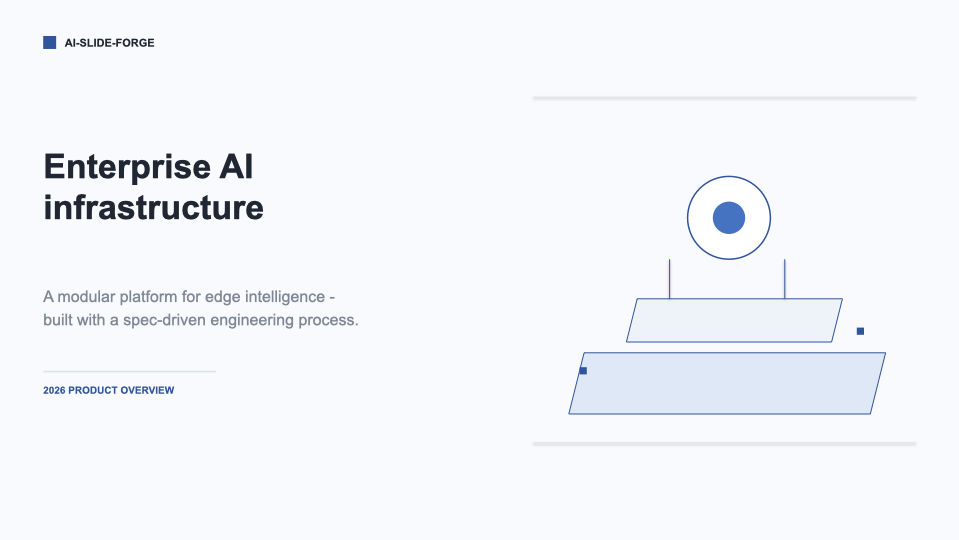
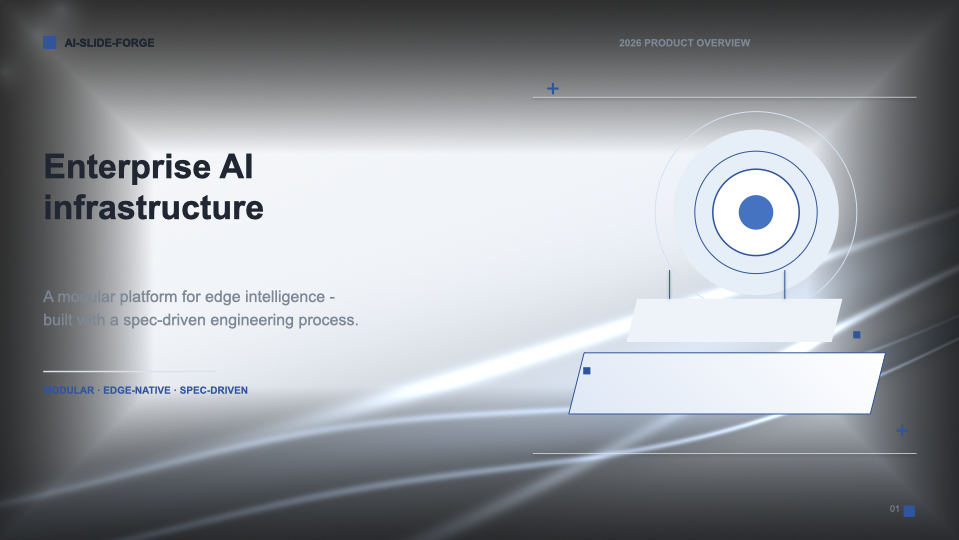
feat: Clean Blue Tech v2 (light washes + richer compositions) + graceful errors + DEVELOP.md
Textures: light mode - white base, pale blue washes, silk bands, dot fields
(no vignette crush). Compositions: platform stack with rings and halo.
Scripts: make_textures graceful config errors + STRICT raise; qa_check
graceful deck-not-found. render_qa.sh: correct output naming docs + input
check. Docs: DEVELOP.md history, background-engine luminance nuance,
styles.md style_id for styles 1-2, sdd-deck reproduce paths, README
five-styles mention.

diff --git a/skills/pptx-ai-slide-forge/scripts/qa_check.py b/skills/pptx-ai-slide-forge/scripts/qa_check.py
@@ -81,9 +81,15 @@ def main():
                     help="text overlap threshold, square inches (default 0.05)")
     args = ap.parse_args()
 
-    failures = []
+    if not os.path.isfile(args.deck):
+        raise SystemExit(f"deck not found: {args.deck}")
 
-    text = text_dump(args.deck)
+    failures = []
+    try:
+        text = text_dump(args.deck)
+    except Exception as e:
+        print(f"[FAIL] cannot extract text from {args.deck}: {e}")
+        raise SystemExit(2)
 
     if args.slides is not None:
         import re

diff --git a/skills/pptx-ai-slide-forge/examples/sdd-deck/README.md b/skills/pptx-ai-slide-forge/examples/sdd-deck/README.md
@@ -14,16 +14,21 @@ built, rendered, visually inspected, fixed, and shipped.
 
 ## Reproduce
 
+All paths are relative to this directory (`examples/sdd-deck/`). Backgrounds go to
+the skill-root `assets/`; the built deck lands next to the scripts
+(`scripts/spec-driven-development-ai-agents.pptx`).
+
 ```bash
-# 1. backgrounds (prints a luminance report per text zone)
+# 1. backgrounds → skill-root assets/ (prints a luminance report per text zone)
 python3 ../../scripts/make_textures.py --config textures_config.py --out ../../assets
 
-# 2. deck (adapt the slide sections for your own content)
+# 2. deck → scripts/spec-driven-development-ai-agents.pptx
+#    (adapt the slide sections in build_deck.py for your own content)
 python3 ../../scripts/build_deck.py
 
 # 3. render + inspect + text QA
-bash ../../scripts/render_qa.sh "$PWD/../../spec-driven-development-ai-agents.pptx" qa
-python3 ../../scripts/qa_check.py ../../spec-driven-development-ai-agents.pptx \
+bash ../../scripts/render_qa.sh "$PWD/../../scripts/spec-driven-development-ai-agents.pptx" qa
+python3 ../../scripts/qa_check.py ../../scripts/spec-driven-development-ai-agents.pptx \
     --slides 8 --contains "NOT RUN:4" --contains "GAP" --forbid "Спасибо"
 ```
 

diff --git a/skills/pptx-ai-slide-forge/references/styles.md b/skills/pptx-ai-slide-forge/references/styles.md
@@ -30,7 +30,8 @@ so **1 px at 1920 = 0.5 pt** on the slide (e.g. headline 80 px → 40 pt, radius
 
 ```json
 {
-  "style_name": "Midnight Electric Blue",
+  "style_id": "midnight-electric-blue",
+  "name": "Midnight Electric Blue",
   "style_category": "Premium Tech / Futuristic Digital / Dark Editorial",
   "description": "Premium technological presentation style with a near-black background, saturated electric blue accents, large typography, 3D objects, glow and complex geometric textures.",
   "overall_mood": {
@@ -269,7 +270,8 @@ so **1 px at 1920 = 0.5 pt** on the slide (e.g. headline 80 px → 40 pt, radius
 
 ```json
 {
-  "style_name": "NovaPay — Liquid Electric Blue",
+  "style_id": "novapay-liquid-electric-blue",
+  "name": "NovaPay — Liquid Electric Blue",
   "style_category": "Premium Fintech / Liquid Glass / Futuristic Web Design",
   "design_philosophy": {
     "core_idea": "A premium tech presentation whose main visual expressiveness comes from dynamic blue 3D backgrounds, volumetric glossy ribbons, soft gradients and translucent interface underlays.",

diff --git a/skills/pptx-ai-slide-forge/references/background-engine.md b/skills/pptx-ai-slide-forge/references/background-engine.md
@@ -18,6 +18,12 @@ Targets, tuned on production:
 | Body/cards zone | ≤ ~22/255 |
 | Texture corners | 15–30/255 mean is plenty; peaks may be brighter |
 
+**Hero covers are the calibrated exception:** the headline zone may carry brighter
+accent luminance (production heroes measured 26–37/255) — the sweeping light
+streaks are the style's signature there. The cap that stays strict is CONTRAST:
+white text over a 25–35/255 zone still reads at ~10:1. Content slides keep the
+strict caps; heroes are measured, not assumed.
+
 Numbers prove darkness. Only your eyes prove style — always open the PNGs.
 
 ## Liquid engine (`"engine": "liquid"`)
